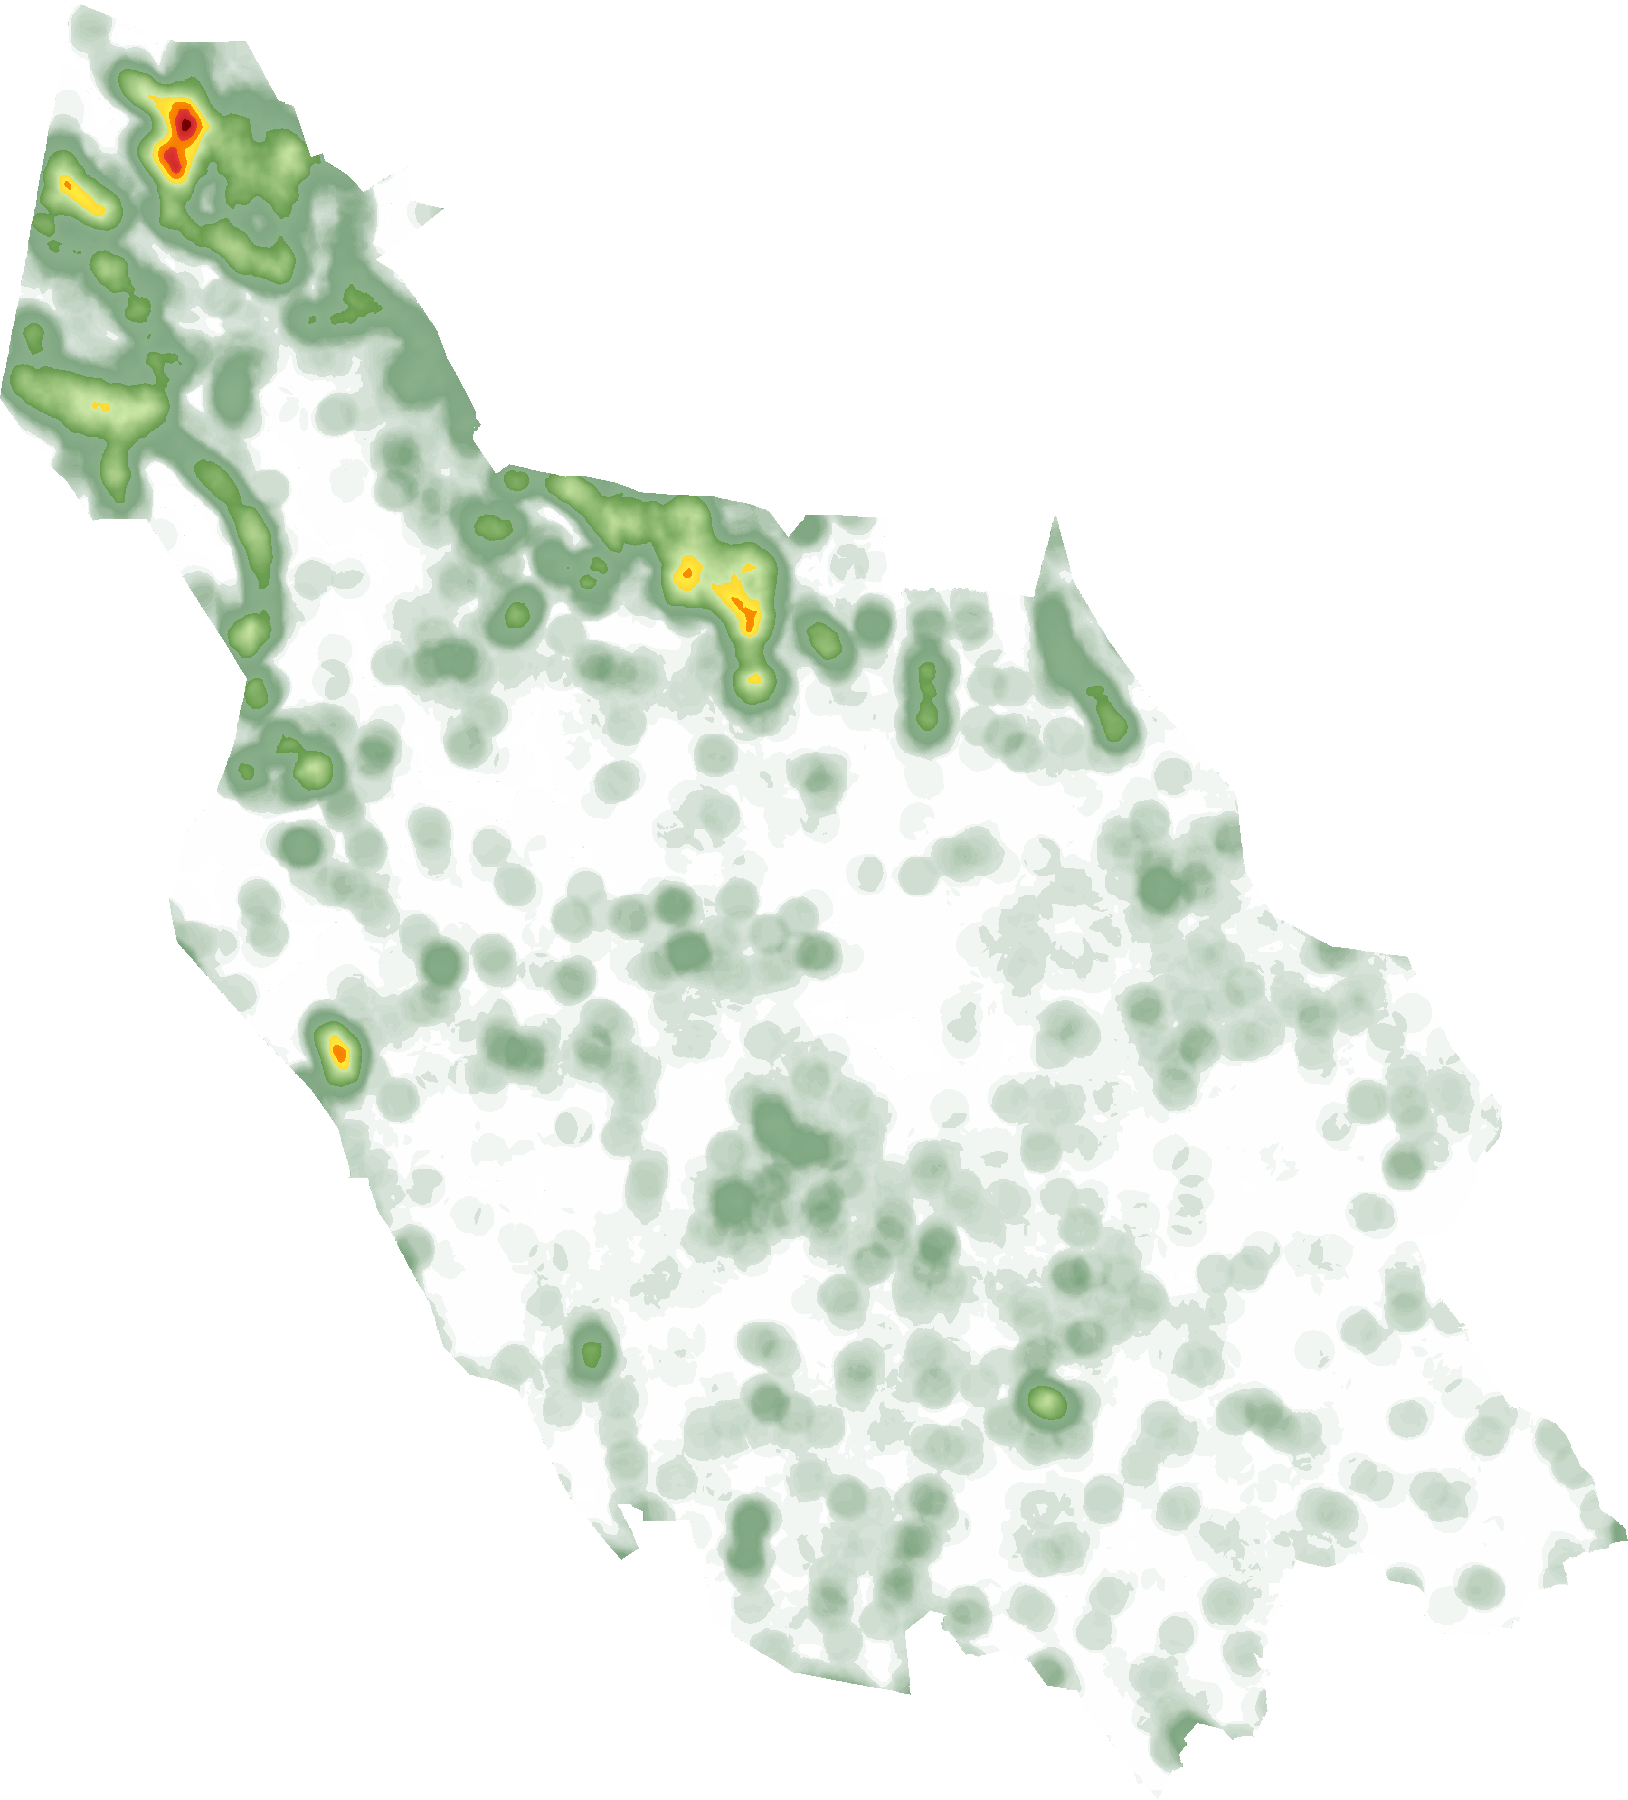
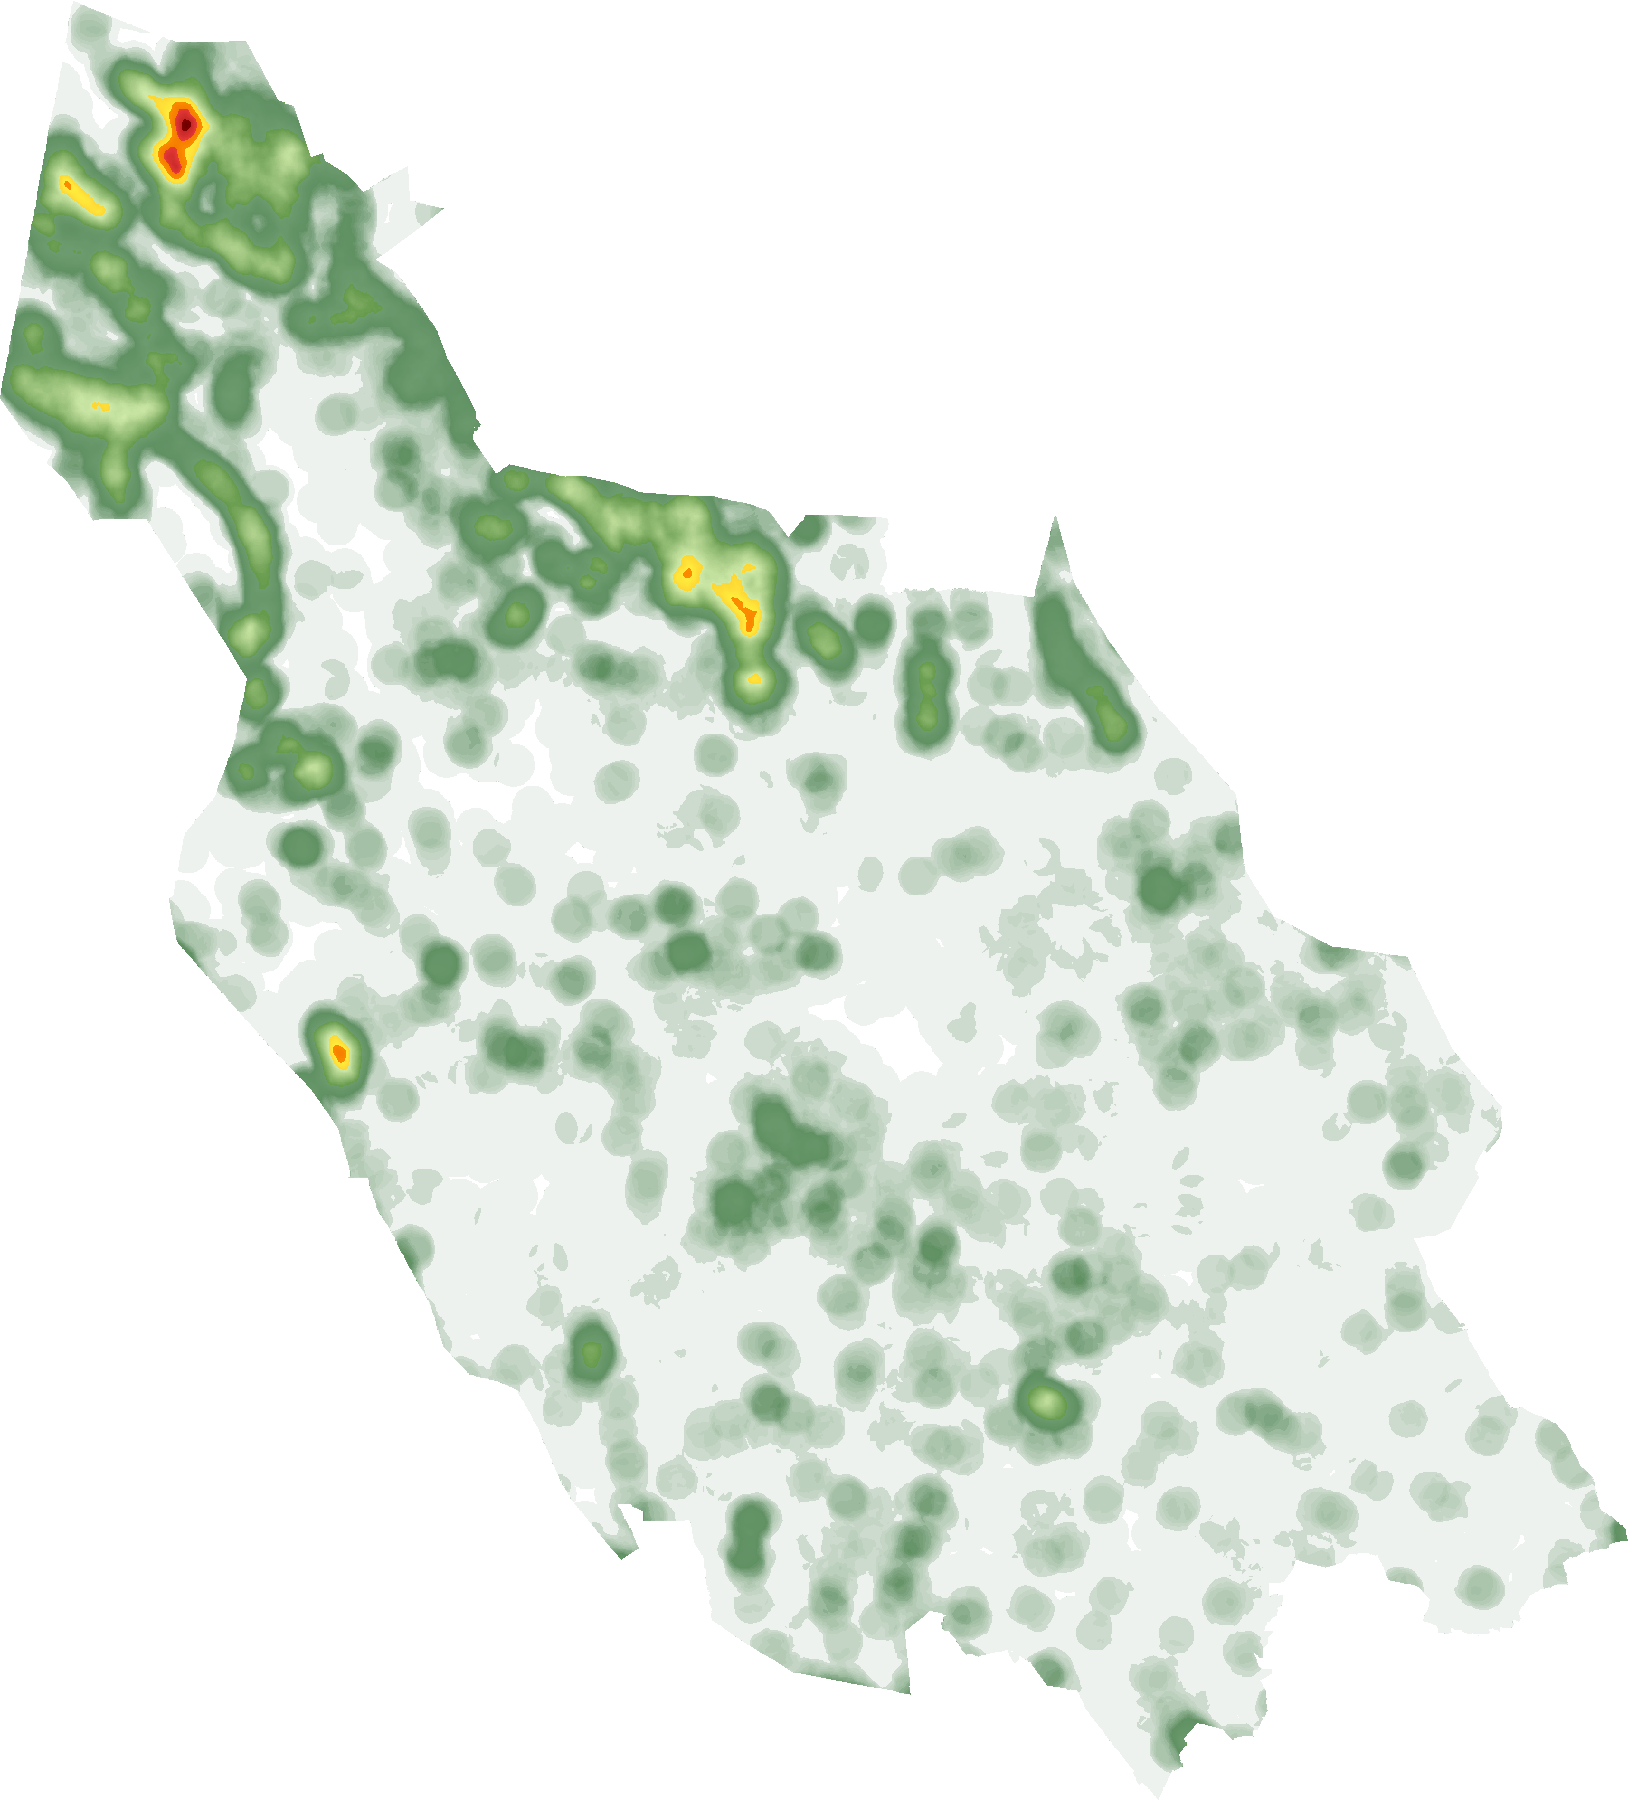
Clarify boreal legend and boost low-value overlay

diff --git a/scripts/11_prepare_raster_overlay.py b/scripts/11_prepare_raster_overlay.py
@@ -461,8 +461,13 @@ def _build_display_image(
     )
     class_opacity_pct = np.clip(class_opacity_pct, 0.0, 100.0)
     class_pct = class_opacity_pct / 100.0
-    # Let the 1-30 band stay readable but sit further back than hotspots.
-    class_pct = np.where((v >= 1.0) & (v <= 30.0), class_pct * 0.6, class_pct)
+    # Keep the 1-30 band visible enough to orient the viewer,
+    # while still letting higher-value hotspots dominate.
+    class_pct = np.where(
+        (v >= 1.0) & (v <= 30.0),
+        np.maximum(class_pct * 0.75, 0.08),
+        class_pct,
+    )
     class_alpha = np.clip(np.rint(class_pct * 255.0), 0, 255).astype(np.uint8)
     if alpha_u8 is None:
         final_alpha = class_alpha
@@ -575,7 +580,7 @@ def _build_overlay(
         "sample_image": sample_image.name,
         "bounds_4326": bounds_4326,
         "opacity": float(opacity),
-        "opacity_mode": "custom_anchors_with_1_30_scaled_to_0p6",
+        "opacity_mode": "custom_anchors_with_1_30_floor_0p08_scale_0p75",
         "zindex": int(zindex),
         "color_ramp": color_ramp,
         "ramp_min": float(ramp_min),

diff --git a/app.py b/app.py
@@ -76,7 +76,7 @@ ADMIN_LAYER_STYLES = {
     "kommungrupper": ("Kommungrupper", "#1d4ed8"),
 }
 BOREAL_LEGEND_ITEMS = [
-    ("1-30", "#1b5e20", "Mörkgrön"),
+    ("1-30", "linear-gradient(90deg, rgba(27,94,32,0.08) 0%, rgba(27,94,32,0.60) 100%)", "Transparent mörkgrön"),
     ("31-60", "#8bc34a", "Ljusgrön"),
     ("61-70", "#fdd835", "Gul"),
     ("71-80", "#fb8c00", "Orange"),
@@ -1301,7 +1301,7 @@ def _render_active_legends(
             {
                 "title": LAYER_LABELS["boreal_density"],
                 "items": items,
-                "caption": "Färgskalan visar täthetsvärde för skoglig värdekärna.",
+                "caption": "Färgskalan visar täthetsvärde för skoglig värdekärna. Låga värden visas mer transparent.",
                 "footer": footer,
             }
         )
